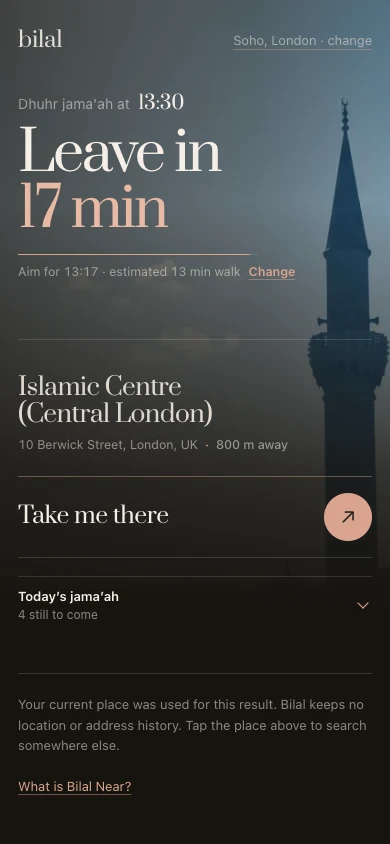
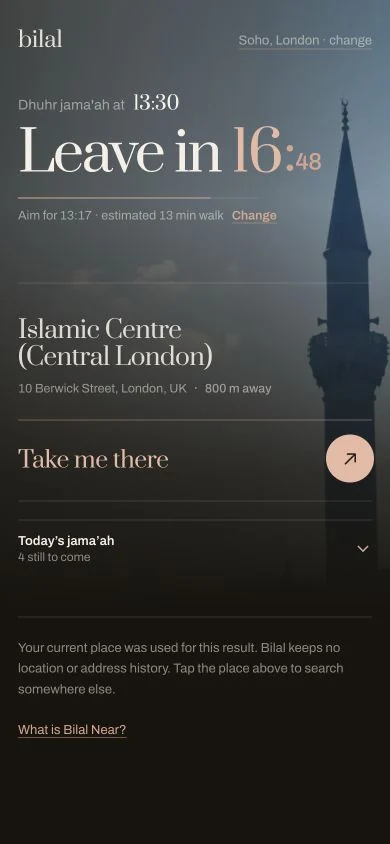
Show Near countdown seconds

diff --git a/near.html b/near.html
@@ -247,6 +247,12 @@ body.is-loading #app{opacity:0;visibility:hidden}
   line-height:1.02;letter-spacing:-.045em;text-wrap:balance}
 .leave b{color:var(--clay-lift);font-weight:400;white-space:nowrap}
 .leave .countdown-minutes{display:inline;font:inherit;letter-spacing:inherit}
+.leave .countdown-colon{display:inline-block;margin:0 .015em 0 .035em;color:var(--clay);
+  font:inherit;transform:translateY(-.02em)}
+.leave .countdown-seconds{display:inline-block;min-width:1.65em;color:var(--clay);
+  font-family:var(--text);font-size:.43em;font-weight:500;line-height:1;
+  letter-spacing:-.025em;font-variant-numeric:tabular-nums lining-nums;
+  transform:translateY(-.08em)}
 .leave small{display:block;margin-top:11px;color:var(--veil);font-family:var(--text);
   font-size:13px;line-height:1.45;letter-spacing:0}
 .leave.none span,.leave.late span{font-size:clamp(31px,9vw,43px);line-height:1.12}
@@ -1102,7 +1108,7 @@ body.guide-open{overflow:hidden}
   function leaveCountdown(ms){
     var total=Math.max(0,Math.floor(ms/1000));
     return {
-      minutes:Math.max(1,Math.ceil(total/60)),
+      minutes:Math.floor(total/60),
       seconds:total%60,
       sweep:total>0 ? (((total-1)%60)+1)/60 : 0
     };
@@ -1192,9 +1198,10 @@ body.guide-open{overflow:hidden}
     var el=$('leave'), remaining=leaveCountdown(ms);
     el.className='leave';
     if(!el.querySelector('.countdown-minutes')){
-      el.innerHTML='<span aria-hidden="true">Leave in <b><strong class="countdown-minutes"></strong> min</b></span><span class="sr-only countdown-spoken"></span>';
+      el.innerHTML='<span aria-hidden="true">Leave in <b><strong class="countdown-minutes"></strong><i class="countdown-colon">:</i><small class="countdown-seconds"></small></b></span><span class="sr-only countdown-spoken"></span>';
     }
     el.querySelector('.countdown-minutes').textContent=remaining.minutes;
+    el.querySelector('.countdown-seconds').textContent=pad(remaining.seconds);
     $('secondSweep').className='second-sweep on';
     $('secondSweep').firstElementChild.style.transform='scaleX('+remaining.sweep+')';
     movingText(el.querySelector('.countdown-spoken'),'Leave in '+Math.max(1,Math.ceil(ms/60000))+' minutes');

diff --git a/near-sw.js b/near-sw.js
@@ -4,7 +4,7 @@
  * the site root. That gives it a broad technical scope, so the fetch handler
  * is intentionally narrow: every route that is not part of Near falls straight
  * through to the network and remains owned by the television experience. */
-const VERSION = 'bilal-near-v14';
+const VERSION = 'bilal-near-v15';
 const SHELL = VERSION + '-shell';
 const DATA = VERSION + '-data';
 const TIMES_HOST = 'bilal-times.ahmed-sakib.workers.dev';
